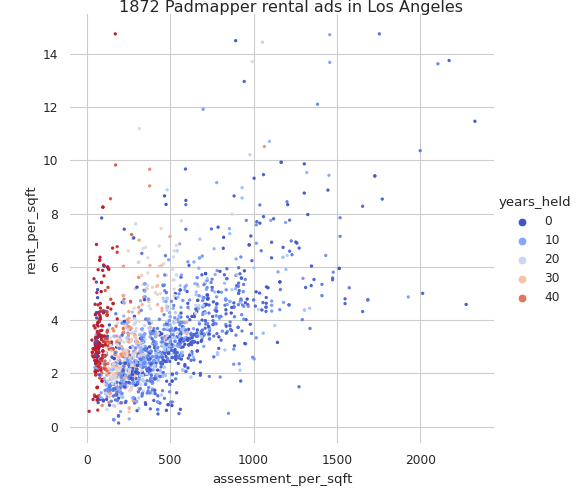
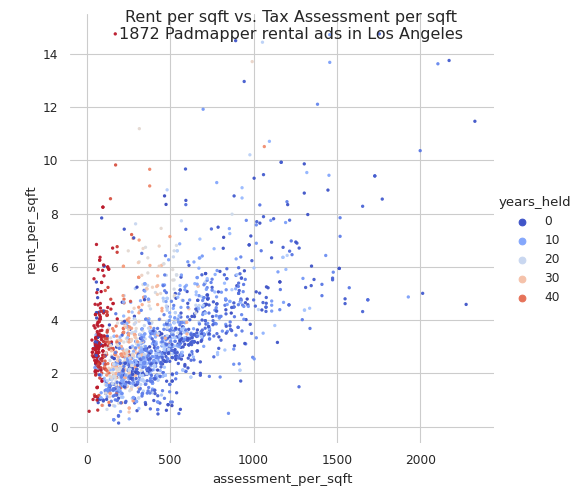
charts

Changed region(s): [[0.1856, 0.0, 0.8041, 0.09]]

diff --git a/assets/padmapper/padmapper_charts.py b/assets/padmapper/padmapper_charts.py
@@ -95,8 +95,6 @@ def plot_scatter(df):
     g.despine(left=True, bottom=True)
     plt.suptitle(
         f"Rent per sqft vs. Tax Assessment per sqft\n{len(df)} Padmapper rental ads in Los Angeles",
-        verticalalignment='top',
-        y=1.035
     )
     output = os.path.join(
         os.environ["HOME"], "ryancompton.net/assets/pix/tax_vs_rent_padmapper.png"
